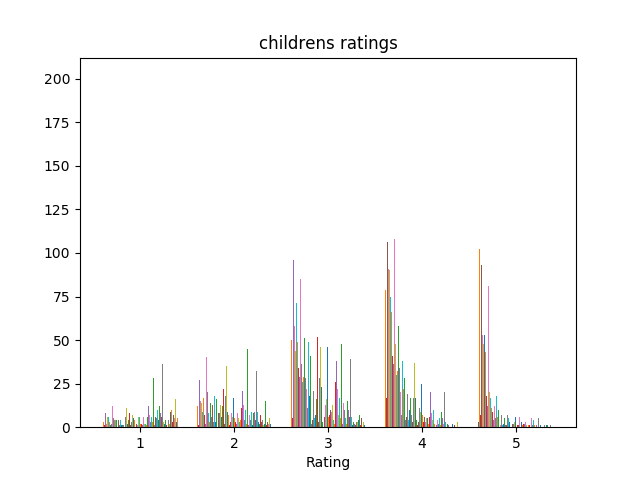
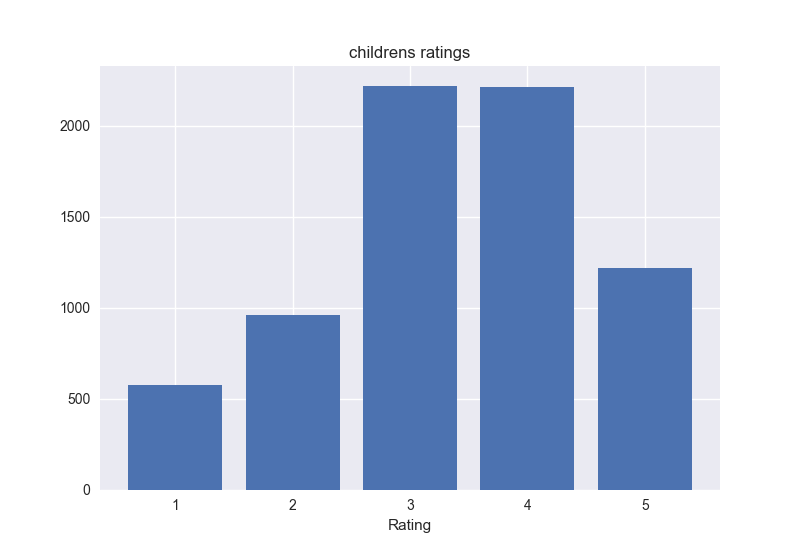
finish plot code

diff --git a/process_data.py b/process_data.py
@@ -1,0 +1,98 @@
+import numpy as np
+import matplotlib.pyplot as plt
+import seaborn
+import pandas as pd
+import os
+
+
+# Loads data (both ratings and movies) into pandas dataframes
+def load_data():
+
+    data = pd.read_csv(
+        os.path.join('data', 'data.txt'),
+        sep='\t',
+        names=['user_id', 'movie_id', 'rating']
+    )
+
+    movies = pd.read_csv(
+        os.path.join('data', 'movies.txt'),
+        sep='\t',
+        names=['movie_id', 'movie_title', 'unknown', 'action', 'adventure',
+        'animation', 'childrens', 'comedy', 'crime', 'documentary', 'drama',
+        'fantasy', 'film-noir', 'horror', 'musical', 'mystery', 'romance',
+        'sci-fi', 'thriller', 'war', 'western'],
+        encoding='latin1' # fixes bug in reading movies.txt
+    )
+
+    print('Data entries:', len(data))
+    print('Movie entries:', len(movies))
+
+    return data, movies
+    
+    
+# Takes a Pandas dataframe
+# fetches and outputs all ratings (list) of a given movie id
+def fetch_all_ratings(data, movie_id):
+    movie_ratings = data[data['movie_id'] == movie_id]
+    rs = movie_ratings['rating'].values
+    return rs
+    
+    
+data, movies = load_data()
+
+# Create new columns in our movies DataFrame
+# to hold the number of ratings and average rating
+# For a given movie
+movies['num_ratings'] = 0
+movies['avg_rating'] = 0
+
+# plot histogram for all ratings
+
+# build data for most popular and highest rating
+for i in range(1, 1682+1):
+    # Get all movie ratings for a specific movies
+    movie_ratings = fetch_all_ratings(data, i)
+
+    # Compute the number of ratings and average ratings
+    ri_avg = np.mean(movie_ratings)
+    ri_num = len(movie_ratings)
+
+    # Add these computed values to our DataFrame
+    movies.loc[movies['movie_id'] == i, 'num_ratings']= ri_num
+    movies.loc[movies['movie_id'] == i, 'avg_rating']= ri_avg
+
+
+# Plot most popular (highest number) ratings
+movies.sort_values('num_ratings', inplace=True, ascending=False)
+popular_movie_ids = movies[:10]['movie_id'].values
+popular_movie_names = list(movies[:10]['movie_title'].values)
+total_pop_ratings = []
+for pop_id in popular_movie_ids:
+    pop_ratings = data.loc[data['movie_id'] == pop_id, 'rating']
+    total_pop_ratings.append(pop_ratings)
+
+total_pop_ratings = pd.Series(np.array(total_pop_ratings))
+
+
+# Plot ratings of best rated movies
+movies.sort_values('avg_rating', inplace=True, ascending=False)
+highest_rated_movie_ids = movies[:10]['movie_id'].values
+highest_rated_movie_names = list(movies[:10]['movie_title'].values)
+total_high_ratings = []
+for high_id in highest_rated_movie_ids:
+    high_ratings = data.loc[data['movie_id'] == high_id, 'rating']
+    total_high_ratings.append(high_ratings)
+
+total_high_ratings = pd.Series(np.array(total_high_ratings))
+
+
+# Plot all ratings of movies from three genres of your choice
+# Now sort ratings by the three genres chosen
+genres = ['action', 'horror', 'childrens']
+total_g_ratings = [[], [], []]
+g_ids = [[], [], []]
+for i, genre in enumerate(genres):
+    g_ids[i] = movies.loc[movies[genre] == 1, 'movie_id'].values
+    for g_id in g_ids[i]:
+        g_ratings = list(data.loc[data['movie_id'] == g_id, 'rating'].values)
+        total_g_ratings[i] += g_ratings

diff --git a/matrixfact_viz.py b/matrixfact_viz.py
@@ -6,7 +6,7 @@ import os
 import prob2utils as model_1
 import prob2utils_withbias as model_2
 import surpriseimpl1 as model_3
-from basic_viz import load_data
+from process_data import *
 
 # Tasks:
 #  - implement the 3 models 
@@ -44,8 +44,9 @@ def project_to_2D(U, V):
 #   - dscr : title of plot
 #   - filename : if save is True, plot will be saved as plots/filename.png
 #   - save : if False, plot will pop-up but not be saved
-_, movies = load_data()
 def visualize(V_proj, movies_to_plot, dscr, filename=None, save=False):
+
+    plt.figure()
     
     # normalize data
     movie_arr = np.array(V_proj)
@@ -72,6 +73,15 @@ def visualize(V_proj, movies_to_plot, dscr, filename=None, save=False):
 
 if __name__ == "__main__":
 
+    to_plot = [
+        ([96, 135, 182, 195, 250, 318, 237, 1095, 257, 288], 'Ten Selected Movies'),
+        (popular_movie_ids, 'Most Popular'),
+        (highest_rated_movie_ids, 'Highest Rated'),
+        (g_ids[0][:10], 'Action'),
+        (g_ids[1][:10], 'Horror'),
+        (g_ids[2][:10], 'Childrens')
+    ]
+
     Y_train = np.loadtxt('data/train.txt').astype(int)
     Y_test = np.loadtxt('data/test.txt').astype(int)
     
@@ -94,11 +104,8 @@ if __name__ == "__main__":
     U_proj_1, V_proj_1 = project_to_2D(U_1, V_1)
     
     # Plot model 1
-    visualize(
-        V_proj_1, 
-        [96, 135, 182, 195, 250, 318, 237, 1095, 257, 288], # mess around with this
-        'Model 1: Ten Selected Movies'
-    )
+    for ids, category in to_plot:
+        visualize(V_proj_1, ids, 'Model 1: ' + category)
     
     # Train model 2: baseline model with bias terms
     k = 20
@@ -116,11 +123,8 @@ if __name__ == "__main__":
     U_proj_2, V_proj_2 = project_to_2D(U_2, V_2)
     
     # Plot model 2
-    visualize(
-        V_proj_2, 
-        [96, 135, 182, 195, 250, 318, 237, 1095, 257, 288], # mess around with this
-        'Model 2: Ten Selected Movies'
-    )
+    for ids, category in to_plot:
+        visualize(V_proj_2, ids, 'Model 2: ' + category)
     
     # TODO: get error out
     print("Training model 3 with M = %s, N = %s, k = %s, eta = %s, reg = %s"%(M, N, k, eta, reg))
@@ -135,12 +139,9 @@ if __name__ == "__main__":
     # Transform model 3 to 2D
     U_proj_3, V_proj_3 = project_to_2D(U_3, V_3)
     
-    # Plot model 3
-    visualize(
-        V_proj_3, 
-        [96, 135, 182, 195, 250, 318, 237, 1095, 257, 288], # mess around with this
-        'Model 3: Ten Selected Movies'
-    )
+    # Plot model 2
+    for ids, category in to_plot:
+        visualize(V_proj_3, ids, 'Model 3: ' + category)
 
     # add needing an input at the end so program doesn't close so fast
     input('please end me')

diff --git a/basic_viz_fixed.py b/basic_viz_fixed.py
@@ -1,0 +1,43 @@
+import numpy as np
+import matplotlib.pyplot as plt
+import seaborn
+import pandas as pd
+import os
+from process_data import *
+
+# Plot and save histogram
+#   - dscr : title of plot
+#   - filename : if save is True, plot will be saved as plots/filename.png
+#   - save : if False, plot will pop-up but not be saved
+def plot_histogram(d, dscr, names=None, filename=None, save=False):
+
+    plt.figure()
+
+    plt.hist(d, bins=[0.5, 1.5, 2.5, 3.5, 4.5, 5.5], rwidth=0.8, label=names)
+    plt.title(dscr)
+    plt.xlabel('Rating')
+    
+    if names:
+        plt.legend()
+
+    if save:
+        plt.savefig(os.path.join('plots', filename + '.png'))
+    else:
+        plt.show()
+
+
+if __name__ == "__main__":
+
+    # Plot all ratings
+    plot_histogram(data['rating'], 'All Ratings', filename='4_1', save=False)
+
+    # Plot most popular movies
+    plot_histogram(total_pop_ratings, 'Most Popular', names=popular_movie_names, filename='4_2',save=False)
+
+    # Plot highest rated movies
+    plot_histogram(total_high_ratings, 'Highest Rated', names=highest_rated_movie_names, filename='4_3',save=False)
+
+    # Plot all ratings of movies from three genres (action, horror, childrens)
+    # Now sort ratings by the three genres chosen
+    for i, genre in enumerate(genres):
+        plot_histogram(total_g_ratings[i], genre + ' ratings', filename='4_4_' + genre,save=False)

diff --git a/prob2utils.py b/prob2utils.py
@@ -41,7 +41,7 @@ def get_err(U, V, Y, reg=0.0):
     return (reg_term + err_term) / len(Y)
 
 
-def train_model(M, N, K, eta, reg, Y, eps=0.0001, max_epochs=300):
+def train_model(M, N, K, eta, reg, Y, eps=0.0001, max_epochs=2):
     """
     Given a training data matrix Y containing rows (i, j, Y_ij)
     where Y_ij is user i's rating on movie j, learns an
